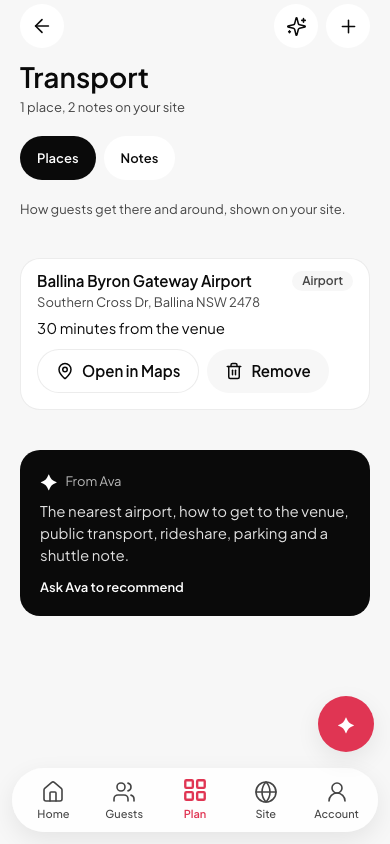
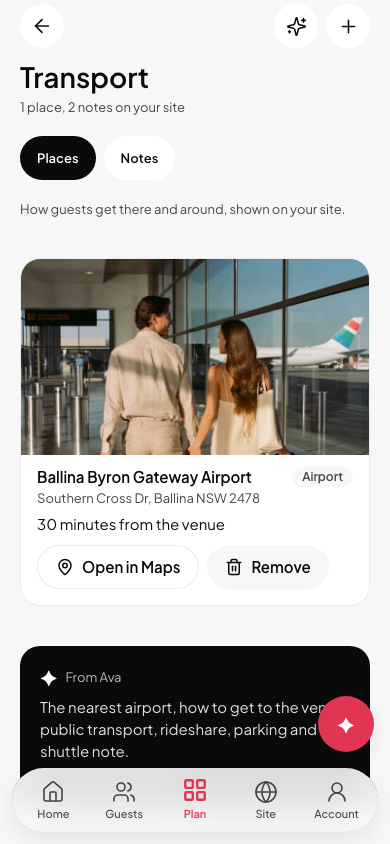
Mobile app goal 5: the demo airport photo
The owner added an airport photo (a couple walking toward the gates
with suitcases) after goal 5; placeAirport takes it, so the manifest
holds 73 slots and 73 distinct photos with no todo slot. The gallery
confirms no repeat; the transport tile and gallery screenshots are
re-captured (the screenshot script takes ONLY=name,name for a partial
run). Only the guest suite Accommodation tile stays open.

diff --git a/src/mobile/images.ts b/src/mobile/images.ts
@@ -10,7 +10,7 @@
  * src/mobile/. /m/preview/images renders this file as a gallery.
  *
  * ONE LIBRARY. Every id here is one of the 73 photos in the Cloudinary
- * folder `app` (cloud dsr84xknv), listed through the Admin API on
+ * folder `app` (cloud dsr84xknv), plus the airport photo added afterwards, listed through the Admin API on
  * 2026-09-21 and viewed one by one before it was assigned. Each photo is
  * used once across the whole app, so no photo repeats on a screen; the
  * `screen` field is what /m/preview/images checks. Crops are chosen so no
@@ -19,8 +19,9 @@
  * here too, so no Cloudinary id lives anywhere else in src/mobile/.
  *
  * `todo: true` marks a slot that has no good photo; the gallery shows the
- * marker and the slot draws a color panel. One is todo after goal 5
- * (placeAirport: the library has no airport exterior).
+ * marker and the slot draws a color panel. None is todo now: the owner
+ * added an airport photo (at the cloud's root, not in `app/`) for
+ * placeAirport after goal 5.
  *
  * ONCE, APP-WIDE (goal 5). A public id may appear in one slot only, and
  * `duplicateIds()` is empty by construction: /m/preview/images throws
@@ -121,7 +122,7 @@ export const IMAGES = {
   placeReception: { id: 'C17E98A9-5E5C-410A-B3F5-46098E2DFD6C_buezni', alt: 'A shared table from above', usedIn: 'Demo: the reception venue photo on Event details', screen: 'event-details', size: { w: 358, h: 200 }, ratio: '16/9' },
   placeStay1: { id: 'hf_20260904_090923_955b7356-c7d6-4f54-a3fd-5aae76c514ed_jq9izj', alt: 'A whitewashed hotel with blue railings', usedIn: 'Demo: guest suite accommodation, place 1 (also the welcome drinks venue)', screen: 'suite-accommodation', size: { w: 358, h: 200 }, ratio: '16/9', focal: '50% 45%' },
   placeStay2: { id: 'DTS_SUITE_TALK_PALI_MENDEZ_Photos_ID14166_tqzysj', alt: 'A bright hotel suite', usedIn: 'Demo: guest suite accommodation, place 2', screen: 'suite-accommodation', size: { w: 358, h: 200 }, ratio: '16/9' },
-  placeAirport: { id: '', alt: 'A small regional airport', usedIn: 'Demo: guest suite transport, the airport (the library has no airport exterior)', screen: 'suite-transport', size: { w: 358, h: 200 }, ratio: '16/9', todo: true, tone: 'neutral' },
+  placeAirport: { id: 'hf_20260921_234435_574beb4c-4fd7-4b47-948d-35721b323d3d_nxxjhz', alt: 'A couple walking toward the gates with suitcases', usedIn: 'Demo: guest suite transport, the airport', screen: 'suite-transport', size: { w: 358, h: 200 }, ratio: '16/9', focal: '50% 60%' },
   placePick1: { id: 'hf_20260917_170201_93bb15ab-fa11-4849-b922-4eca471c3d50_cwapbb', alt: 'A table at a seaside restaurant', usedIn: 'Demo: experience guide, coffee pick', screen: 'experience', size: { w: 358, h: 200 }, ratio: '16/9', focal: '50% 40%' },
   placePick2: { id: 'pin_edinburgh_couple', alt: 'A windy walk on the headland', usedIn: 'Demo: experience guide, outdoors pick', screen: 'experience', size: { w: 358, h: 200 }, ratio: '16/9', focal: '50% 40%' },
   placeMarket1: { id: 'hf_20260904_090213_dcaa917a-e117-4610-8618-a399139999a4_jv74kl', alt: 'A black and white portrait in a doorway', usedIn: 'Demo: marketplace result 1, the photographer', screen: 'marketplace', size: { w: 72, h: 72 }, ratio: '1/1', focal: '50% 35%' },

diff --git a/MOBILE_APP.md b/MOBILE_APP.md
@@ -390,11 +390,11 @@ Shared pieces added: `PlaceField` (Places search, use my location, add by hand; 
 
 ### Photos (phase 3)
 
-Every rendered image on every preview route was collected from the DOM (headless, all `img` sources and inline background images) and traced back to `src/mobile/images.ts`; nothing renders that is not a slot there, apart from the logo and favicon. The manifest now names 73 slots and 72 distinct photos, each photo in exactly one slot anywhere in the app: the nine demo place photos, thirteen Plan tiles that were icon panels, six fixed keep-planning cards by position (so a Plan tile photo is never drawn again on Home), the Site preview's own hero block (`fixtureSite`), and the push preview wallpaper from its own slot. `/m/preview/images` throws on any duplicate (`duplicateIds()`), so a repeat cannot ship unnoticed.
+Every rendered image on every preview route was collected from the DOM (headless, all `img` sources and inline background images) and traced back to `src/mobile/images.ts`; nothing renders that is not a slot there, apart from the logo and favicon. The manifest now names 73 slots and 73 distinct photos, each photo in exactly one slot anywhere in the app: the nine demo place photos, thirteen Plan tiles that were icon panels, six fixed keep-planning cards by position (so a Plan tile photo is never drawn again on Home), the Site preview's own hero block (`fixtureSite`), and the push preview wallpaper from its own slot. `/m/preview/images` throws on any duplicate (`duplicateIds()`), so a repeat cannot ship unnoticed.
 
 The one deliberate repeat is not a library photo: the couple's own cover is their identity and shows on the Home hero, the Account card and the lock screen, as a profile photo would. `homeHeroImages()` fills each hero position with the couple's photo for that position or the decorative slot for it, never a repeat to fill a gap; `siteImageFor()` previews the site's own first photo block. The Beach Hotel is both the welcome-drinks venue and accommodation place 1, so its one Google photo shows in both places, as it would in the connected app.
 
-Photo-free by design: the Send invites, Invitations and Considerations tiles (they hand off to desktop), the Emergency contact tile (a form) and the guest suite Accommodation tile. **Photos still needed: 1.** `placeAirport` (the demo airport on guest suite Transport) draws a color panel because the library has no airport exterior. The one unassigned library photo (a couple in bed, `DTS_SUITE_TALK ... 14160`) has closed eyes in its focal area and stays out, as goal 4 ruled; with it the Accommodation tile could be filled, so a second photo would fill that too.
+Photo-free by design: the Send invites, Invitations and Considerations tiles (they hand off to desktop), the Emergency contact tile (a form) and the guest suite Accommodation tile. The demo airport (`placeAirport`) was the one slot without a photo; the owner added one after goal 5 (`hf_20260921_234435_..._nxxjhz`, a couple walking toward the gates with suitcases, at the cloud's root rather than in `app/`), so the manifest now holds 73 slots and 73 distinct photos. **Still open: 1.** The guest suite Accommodation tile stays an icon tile; the one unassigned library photo (a couple in bed, `DTS_SUITE_TALK ... 14160`) has closed eyes in its focal area and stays out, as goal 4 ruled, so a photo for that tile is a second one to add.
 
 ### Independent check (phase 4)
 
